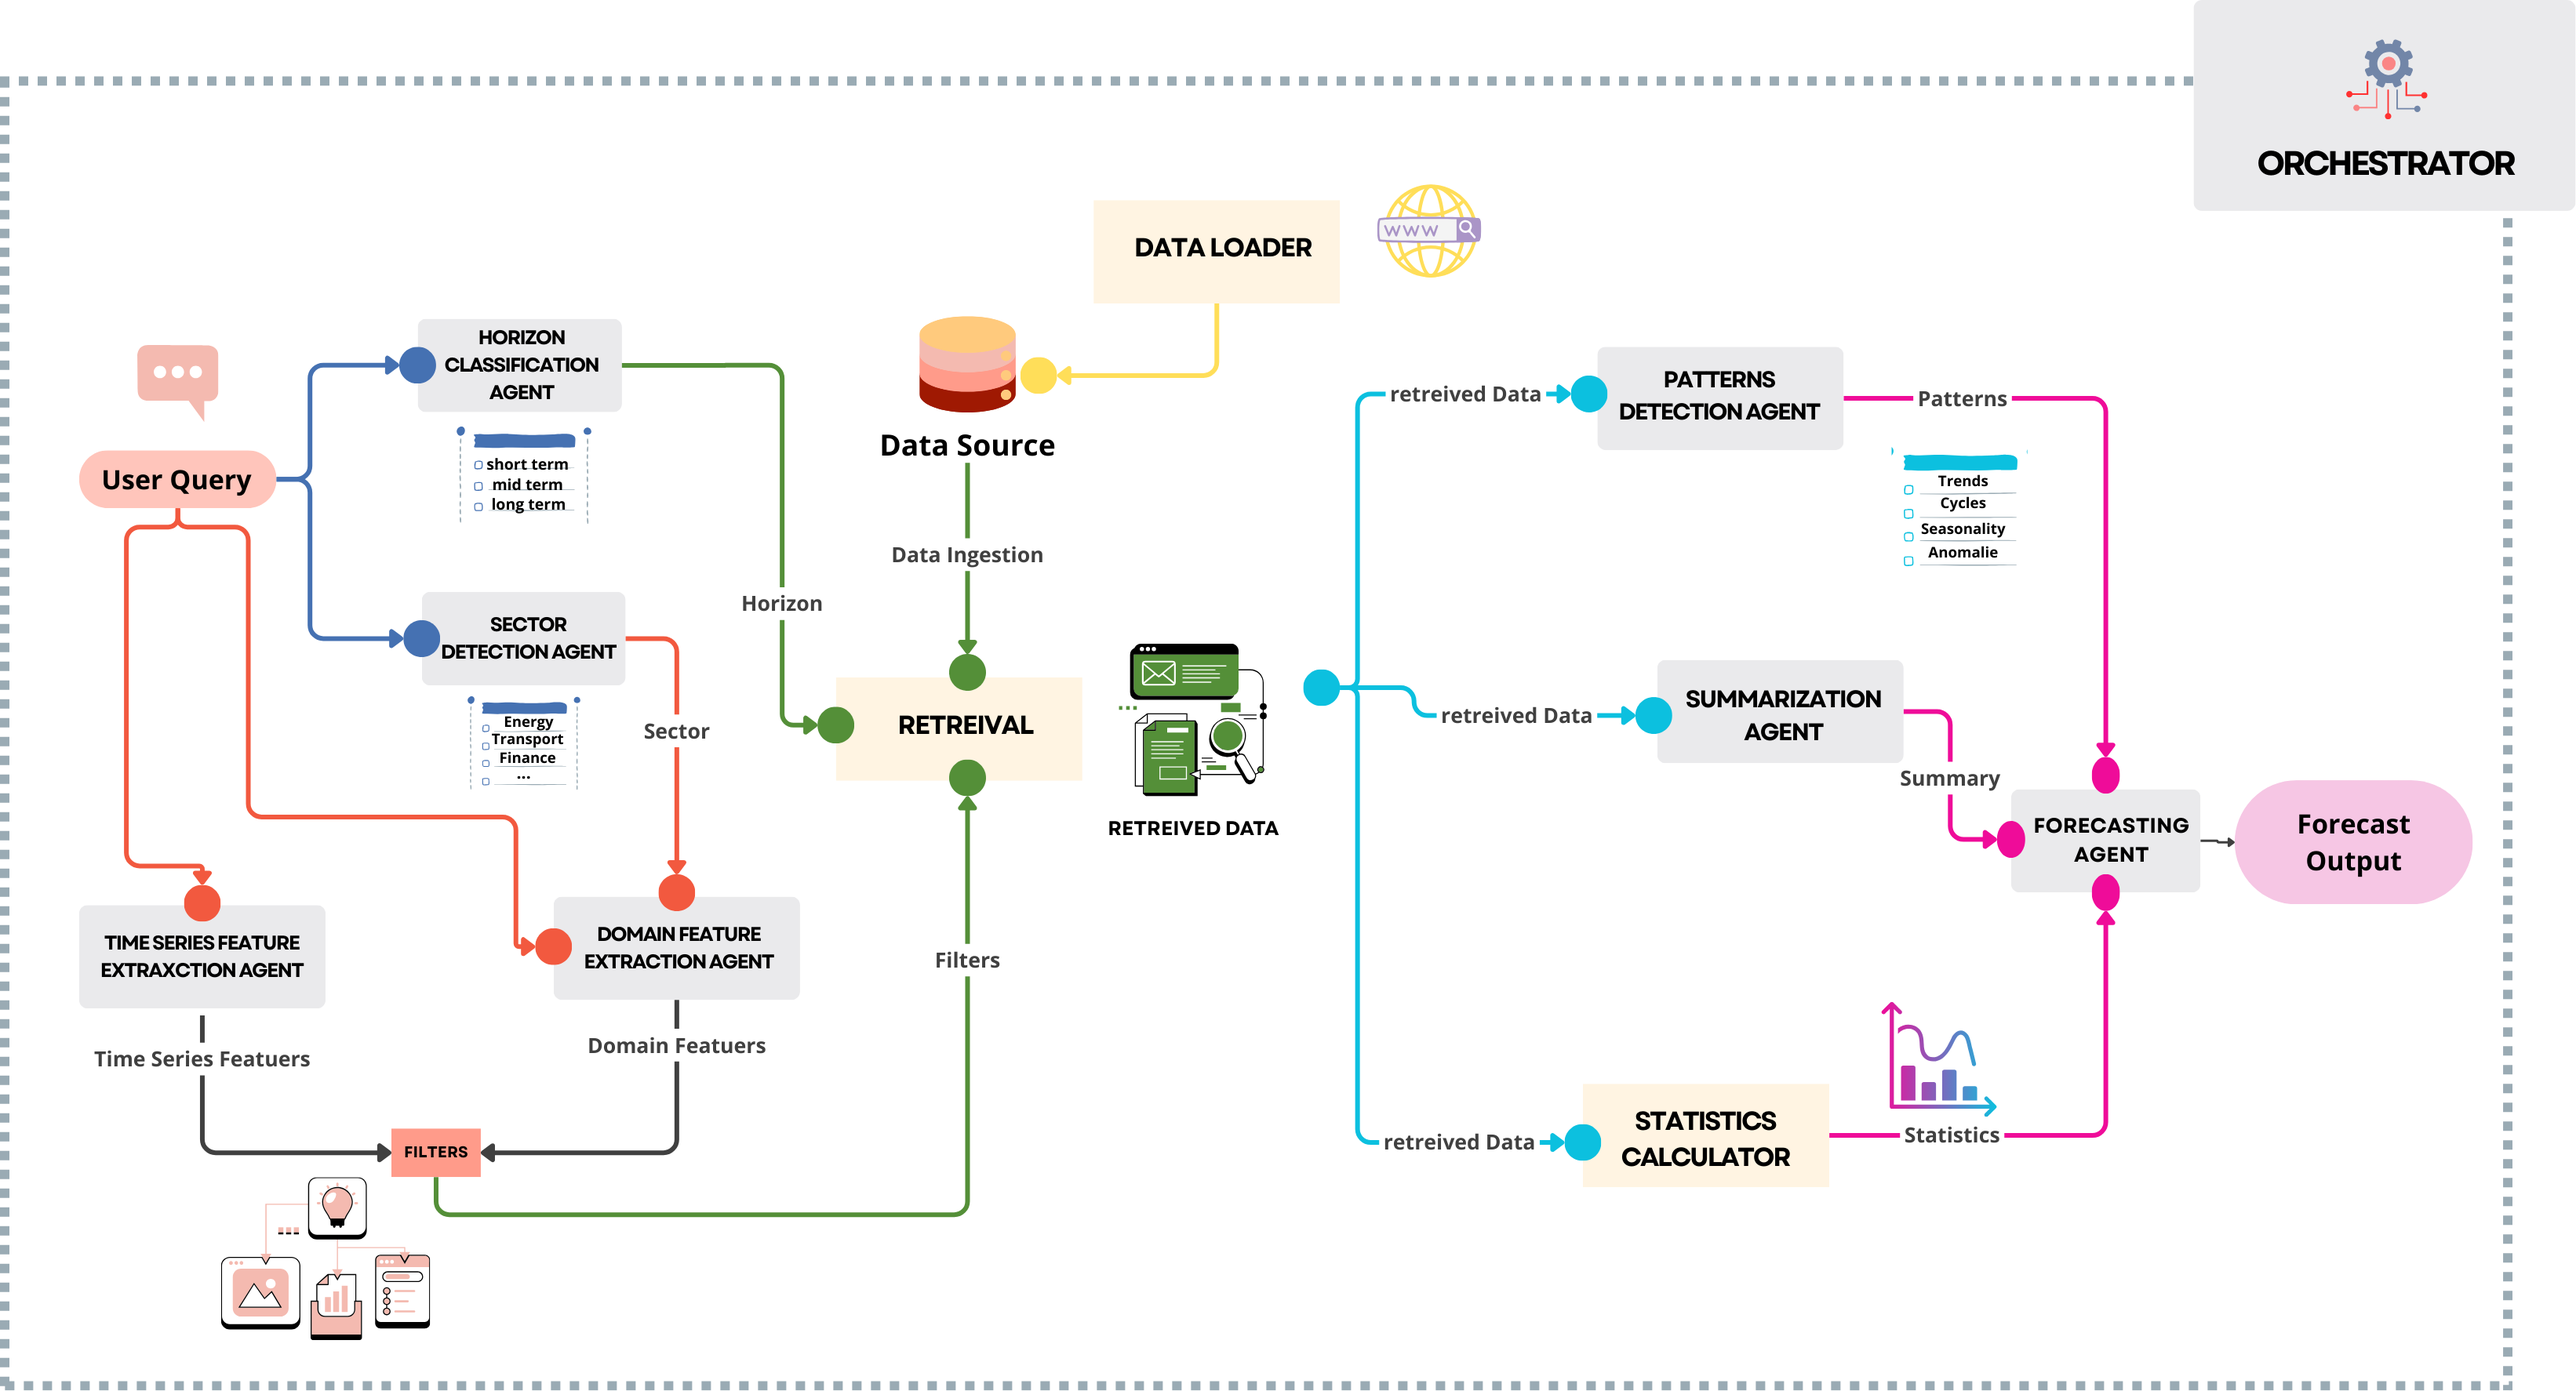
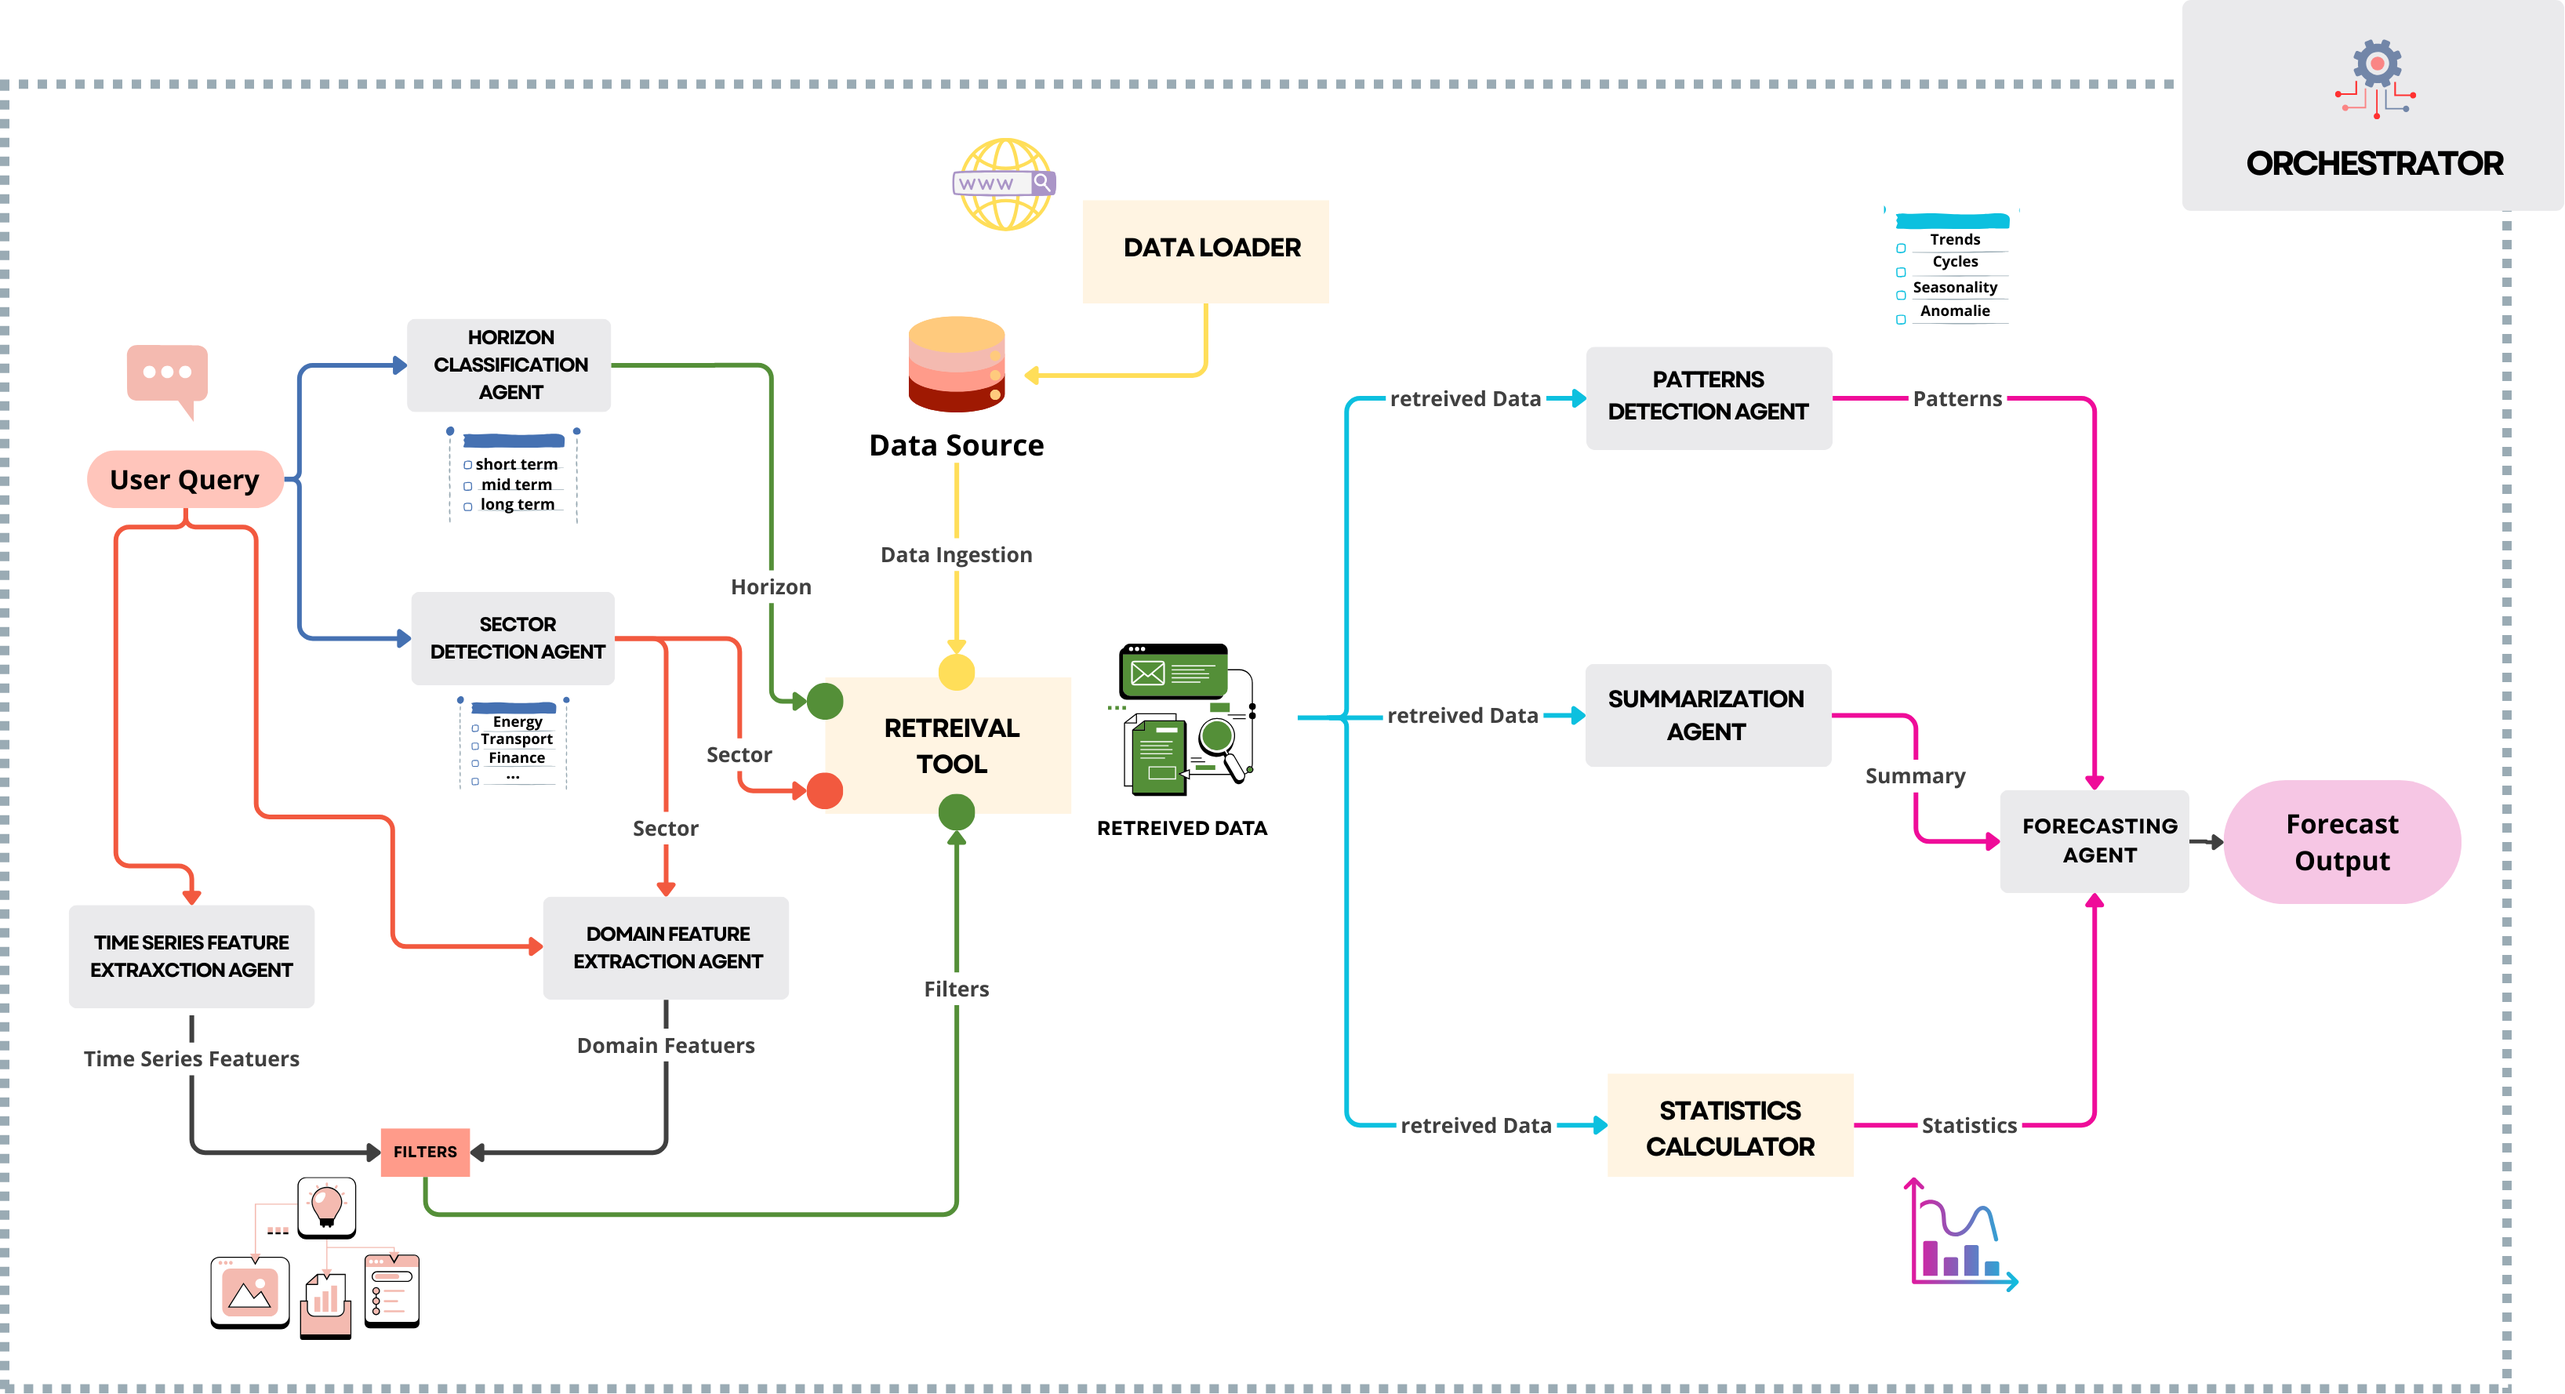
updates

diff --git a/README.md b/README.md
@@ -8,61 +8,65 @@ This repository contains the reference implementation for the paper:
 <p align="center">
   <img src="assets/architecture.png" width="85%" alt="Overview of the retrieval-augmented multi-agent forecasting framework">
 </p>
-The system reformulates time series forecasting as a **structured reasoning workflow** over **deterministically retrieved** historical evidence, coordinated by multiple role-specialized LLM agents. The design emphasizes **interpretability, reproducibility, and ablation-driven analysis**, rather than end-to-end opaque prediction.
+This paper introduced a retrieval-augmented, agent-based framework that reformulates time series forecasting as a structured, language-driven reasoning process over historical temporal evidence. By decomposing forecasting into modular components—including deterministic retrieval, statistical grounding, temporal pattern analysis, data summarization, and synthesis—the proposed system enables interpretable, flexible, and reproducible forecasting in response to natural language queries.
 
 ---
 
 ## Core Principles
 
-- **Deterministic DataFrame Retrieval**  
-  Historical context is retrieved via structured filters (time, region, metric), ensuring exact numerical grounding and reproducibility.
+Our primary contributions are:
 
-- **Tool-Augmented Reasoning**  
-  All numerical operations (statistics, aggregation) are computed via code, not inferred by the LLM.
+- **Forecasting as Deterministic Evidence-Grounded Reasoning.**
+We formalize time series forecasting as a modular reasoning process over deterministically retrieved temporal contexts, rather than as end-to-end parametric sequence modeling. This perspective transforms forecasting from function approximation into structured, interpretable decision-making conditioned on verifiable historical slices.
 
-- **Multi-Agent Decomposition**  
-  Forecasting is decomposed into interpretable agents (feature extraction, retrieval, statistics, summarization, pattern detection, synthesis).
+- **DataFrame-Grounded Retrieval for Numerical Fidelity.**
+We introduce a deterministic, schema-aligned retrieval operator that operates directly on structured time-series tables, avoiding embedding-based similarity search. Unlike vector retrieval, our method guarantees exact timestamp alignment, numerical fidelity, and full reproducibility across executions.
 
-- **Ablation-Ready by Design**  
-  Each agent can be independently disabled to quantify its contribution.
+- **Modular Multi-Agent Forecasting Architecture.**
+We design a coordinated, role-specialized agent framework comprising horizon classification, feature extraction, statistical grounding, summarization, pattern detection, and forecast synthesis under centralized orchestration. This decomposition enables controlled ablation, backend-agnostic evaluation, and transparent intermediate reasoning artifacts.
+
+- **Reproducibility-Centric Evaluation of LLM Forecasting.**
+We introduce a systematic reproducibility protocol that quantifies run-to-run numerical dispersion, coefficient of variation, and worst-step instability under repeated identical executions. This analysis exposes backend-dependent stochasticity and provides an operational perspective on deployment stability.
+
+- **Comprehensive Backend and Component Analysis.**
+Across four state-of-the-art LLM backends, we demonstrate that structured retrieval and statistical grounding materially improve forecasting accuracy and stability relative to prompt-only baselines and component-wise ablations.
 
 ---
 
 ## Repository Structure
 .
-├── ablation/
-│   ├── Claude/                 # Ablation outputs (Claude)
-│   ├── Deepseek/               # Ablation outputs (DeepSeek)
-│   ├── Gemini/                 # Ablation outputs (Gemini)
-│   ├── OpenAI/                 # Ablation outputs (OpenAI)
+├── experiments/
+│   ├── Claude/                 # Experiments outputs (Claude)
+│   ├── Deepseek/               # Experiments outputs (DeepSeek)
+│   ├── Gemini/                 # Experiments outputs (Gemini)
+│   ├── OpenAI/                 # Experiments outputs (OpenAI)
 │   ├── eval/                   # Evaluation utilities
 │   ├── queries/                # Query sets used for evaluation
 │   ├── stubs/                  # Stubs/mocks for controlled experiments
-│   ├── utils/                  # Ablation helpers
+│   ├── utils/                  # Experiment helpers
 │   └── yamls/                  # Experiment configurations
+│   └── scripts/                # Run Experiments
 │
 ├── agents/
-│   ├── orchestration_agent.py  # Central orchestrator
-│   ├── sector_detector.py      # Domain detection using LLMs
-│   ├── timeseries_features.py  # Temporal parsing and filters using LLMs
-│   ├── energy_features.py      # Energy-domain feature extraction
-│   ├── retrieval.py            # Deterministic DataFrame retrieval
+│   ├── orchestration_agent.py    # Central orchestrator
+│   ├── sector_detector.py        # Domain detection Agent
+│   ├── timeseries_features.py    # Temporal feature extraction Agent
+│   ├── energy_features.py        # Energy-domain feature extraction Agent
+│   ├── retrieval.py              # Deterministic DataFrame retrieval
 │   ├── statistics_calculation.py # Tool-based statistics
-│   ├── summarization.py        # Token-efficient summarization
-│   ├── pattern_detection.py    # Trend/seasonality/anomaly detection
-│   ├── forecast_narrative.py   # Forecast synthesis and formatting
-│   └── redirecting_agent.py    # Horizon routing / fallback logic
+│   ├── summarization.py          # Token-efficient summarization Agent
+│   ├── pattern_detection.py      # Patterns detection Agent
+│   ├── forecast_narrative.py     # Forecasting Agent
+│   └── redirecting_agent.py      # Horizon classification Agent
 │
 ├── data/                       # Dataset and processed data
 ├── utils/                      # Shared utilities
 │
-├── ablate_model.py             # Run ablation for a single configuration
-├── ablate_parallel.py          # Parallel ablation runs
 ├── interface.py                # Lightweight interactive interface
 ├── main.py                     # Main end-to-end entry point
 │
 ├── requirements.txt
-├── .env                        # Environment variables (not committed)
+├── .env                        # Environment variables 
 └── README.md
 
 ---
@@ -79,11 +83,10 @@ pip install -r requirements.txt
 
 Create a .env file at the project root:
 
-OPENAI_API_KEY="..."
-DEEPSEEK_API_KEY="..."
-GEMINI_API_KEY="..."
-ANTHROPIC_API_KEY="..."
-
+- OPENAI_API_KEY="..."
+- DEEPSEEK_API_KEY="..."
+- GEMINI_API_KEY="..."
+- ANTHROPIC_API_KEY="..."
 
 ## Running the System
 
@@ -91,7 +94,7 @@ ANTHROPIC_API_KEY="..."
 python main.py
 
 ### Interactive Mode
-python interface.py
+streamlit run interface.py
 
 ## Forecasting Workflow (Per Query)
 
@@ -106,7 +109,6 @@ python interface.py
 - Forecast synthesis (prediction + rationale)
 
 All intermediate artifacts are explicit and inspectable.
-
 
 ## Ablation Studies
 
